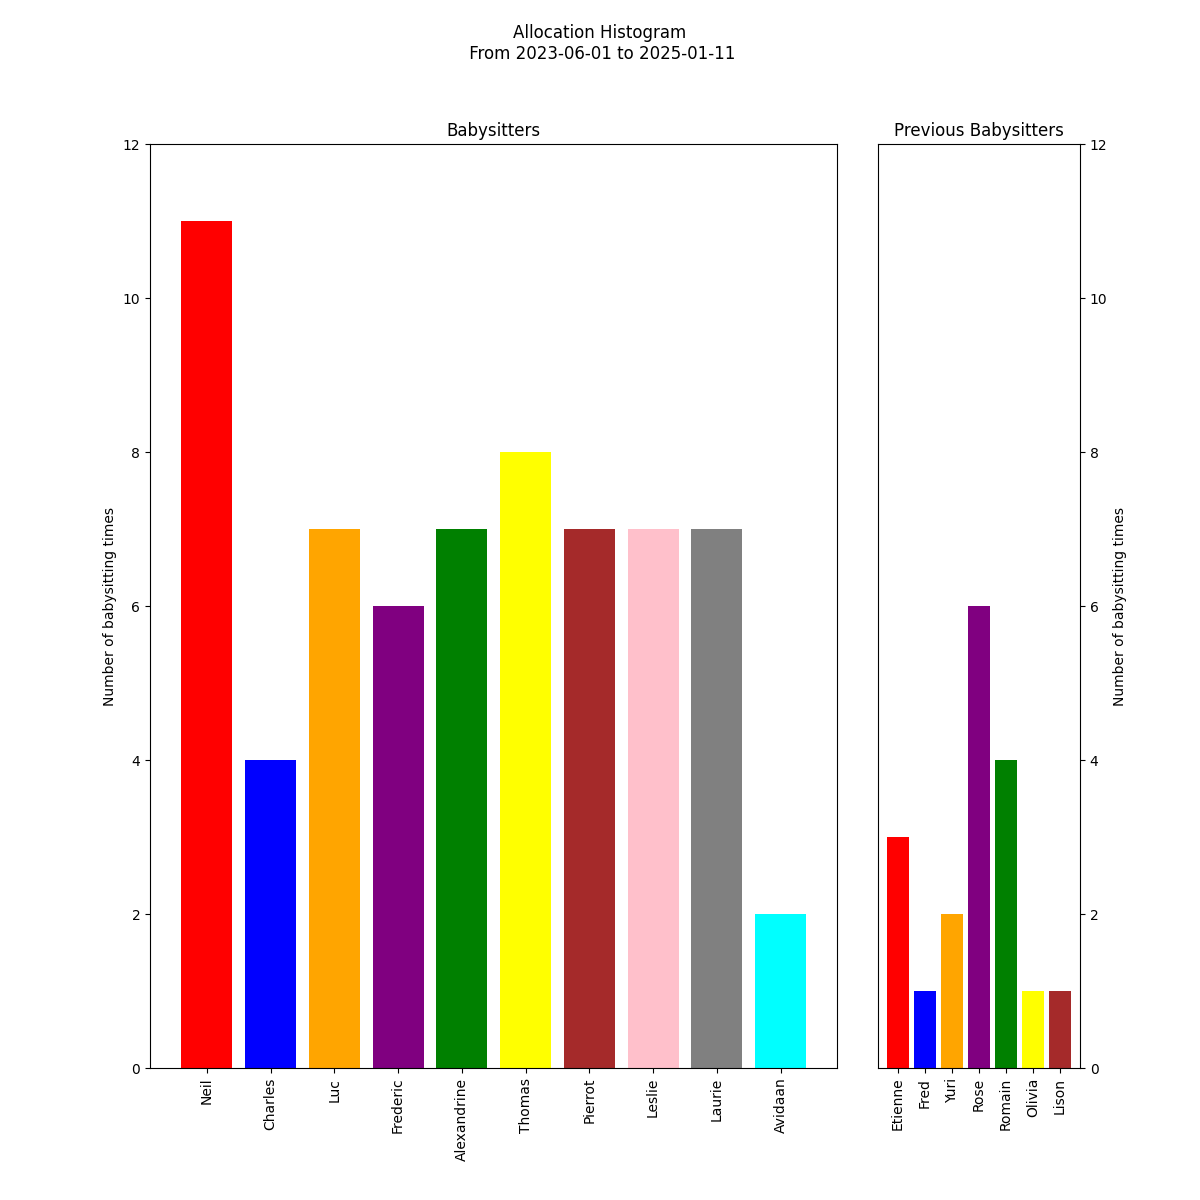
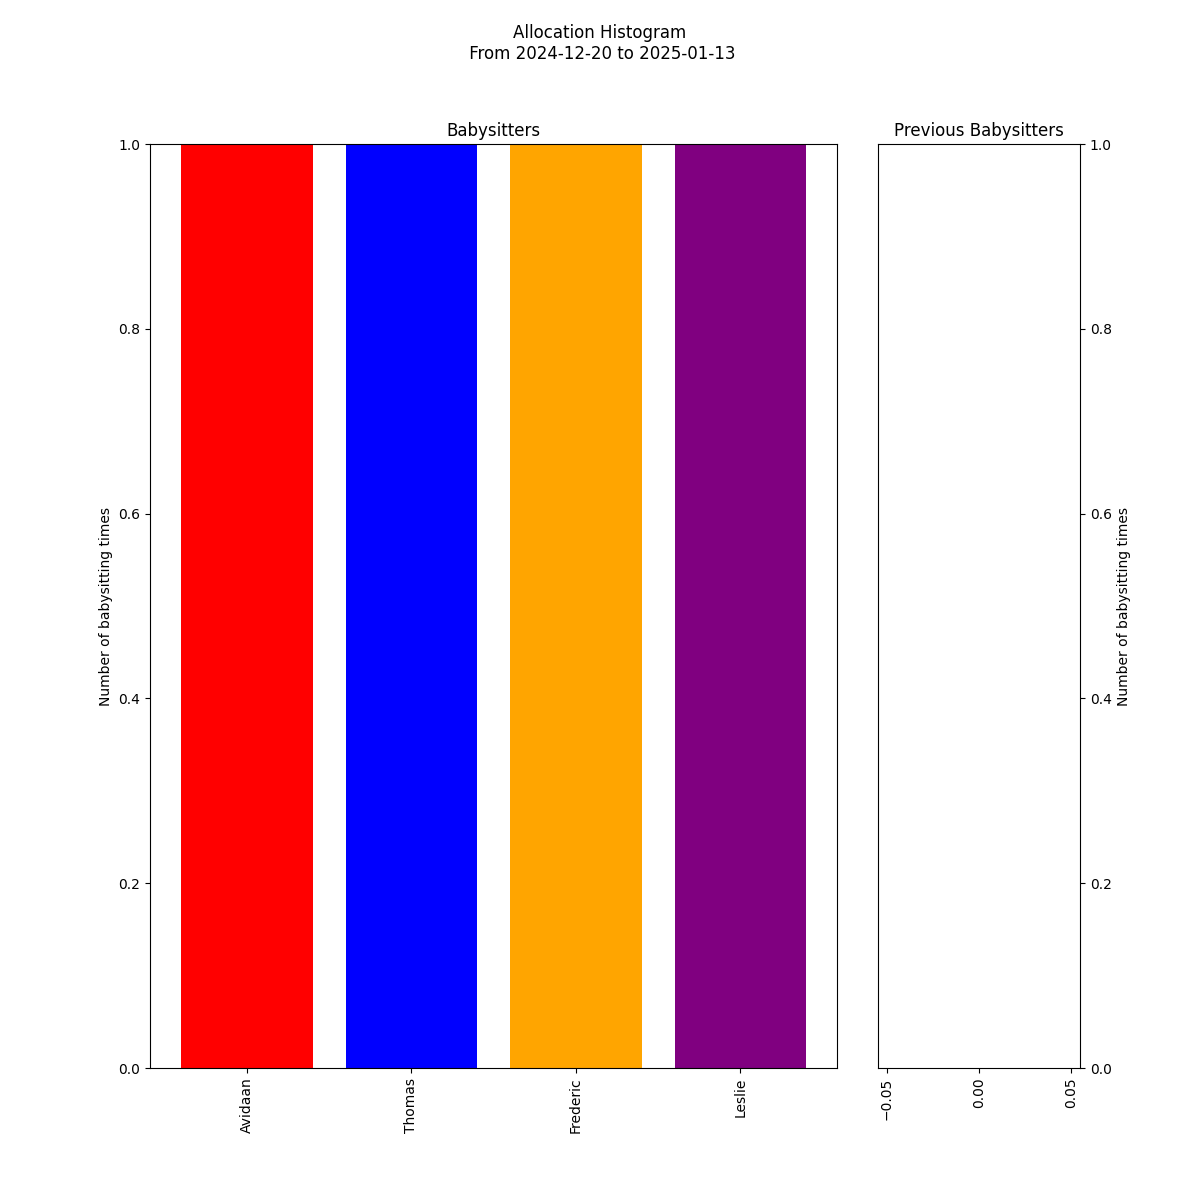
[APERO CHECKS] update mangage checks

diff --git a/nirps/apero_check/manage_checks.py b/nirps/apero_check/manage_checks.py
@@ -37,9 +37,9 @@ COMM_SHEET = dict(NIRPS_HA='346030560', NIRPS_HE='68390787')
 INSTRUMENTS = ['NIRPS_HE', 'NIRPS_HA']
 SHORT = ['he', 'ha']
 # Start from this date
-ALLOCATION_START = '2023-06-01'
+ALLOCATION_START = '2024-12-20'
 # Start plot from this date
-COMMENT_START = '2024-08-01'
+COMMENT_START = '2024-12-20'
 # Name people who have left
 EX_MEMBERS = ['Fred', 'Yuri', 'Rose', 'Olivia', 'Romain', 'Etienne', 'Lison']
 # Ignore these columns when checking for False in check tables
@@ -113,8 +113,11 @@ def allocation_histogram(allocation_table: Table):
         # get the name counts
         name_counts = Counter(allocation_table['Who'][datemask & groupmask])
 
-        # Get the maximum entry
-        max_entry = max(max_entry, max(name_counts.values()))
+        if len(name_counts) == 0:
+            max_entry = 0
+        else:
+            # Get the maximum entry
+            max_entry = max(max_entry, max(name_counts.values()))
 
         # Plot the histogram
         frames[it].bar(name_counts.keys(), name_counts.values(),
